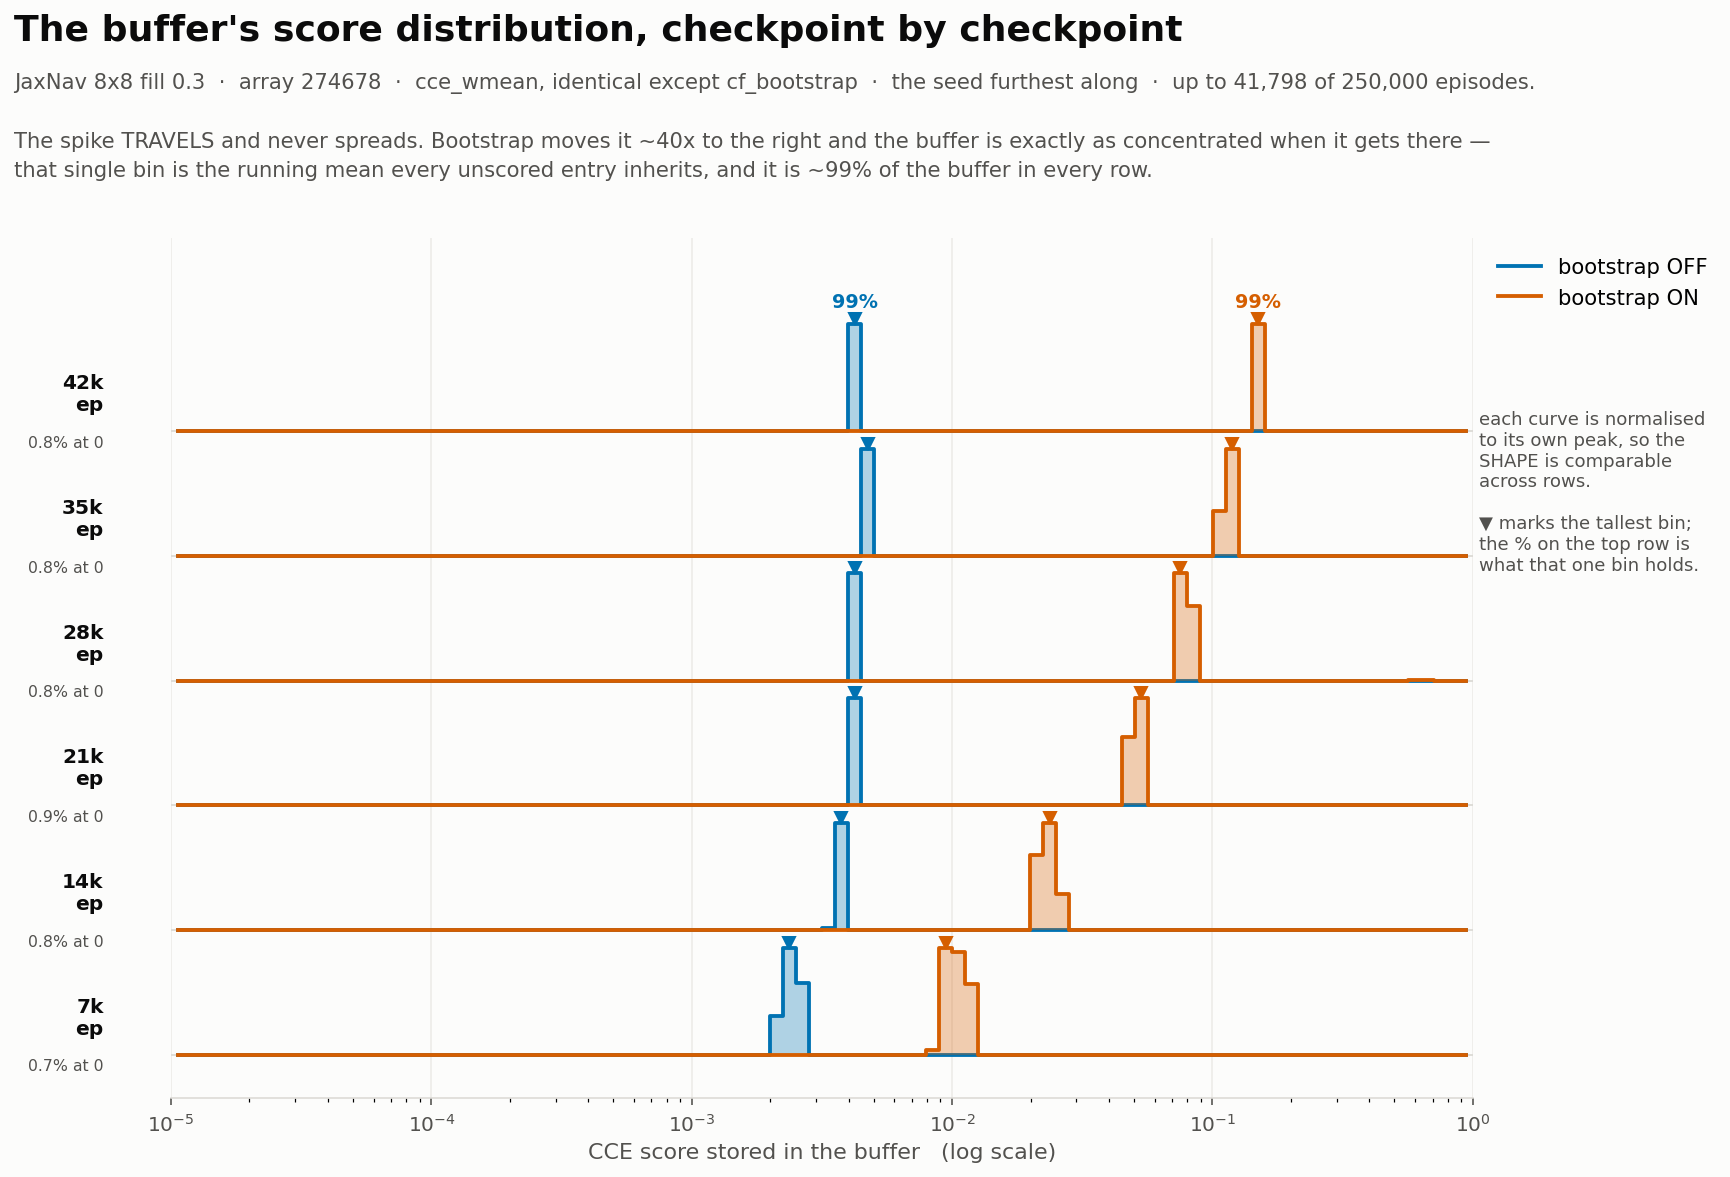
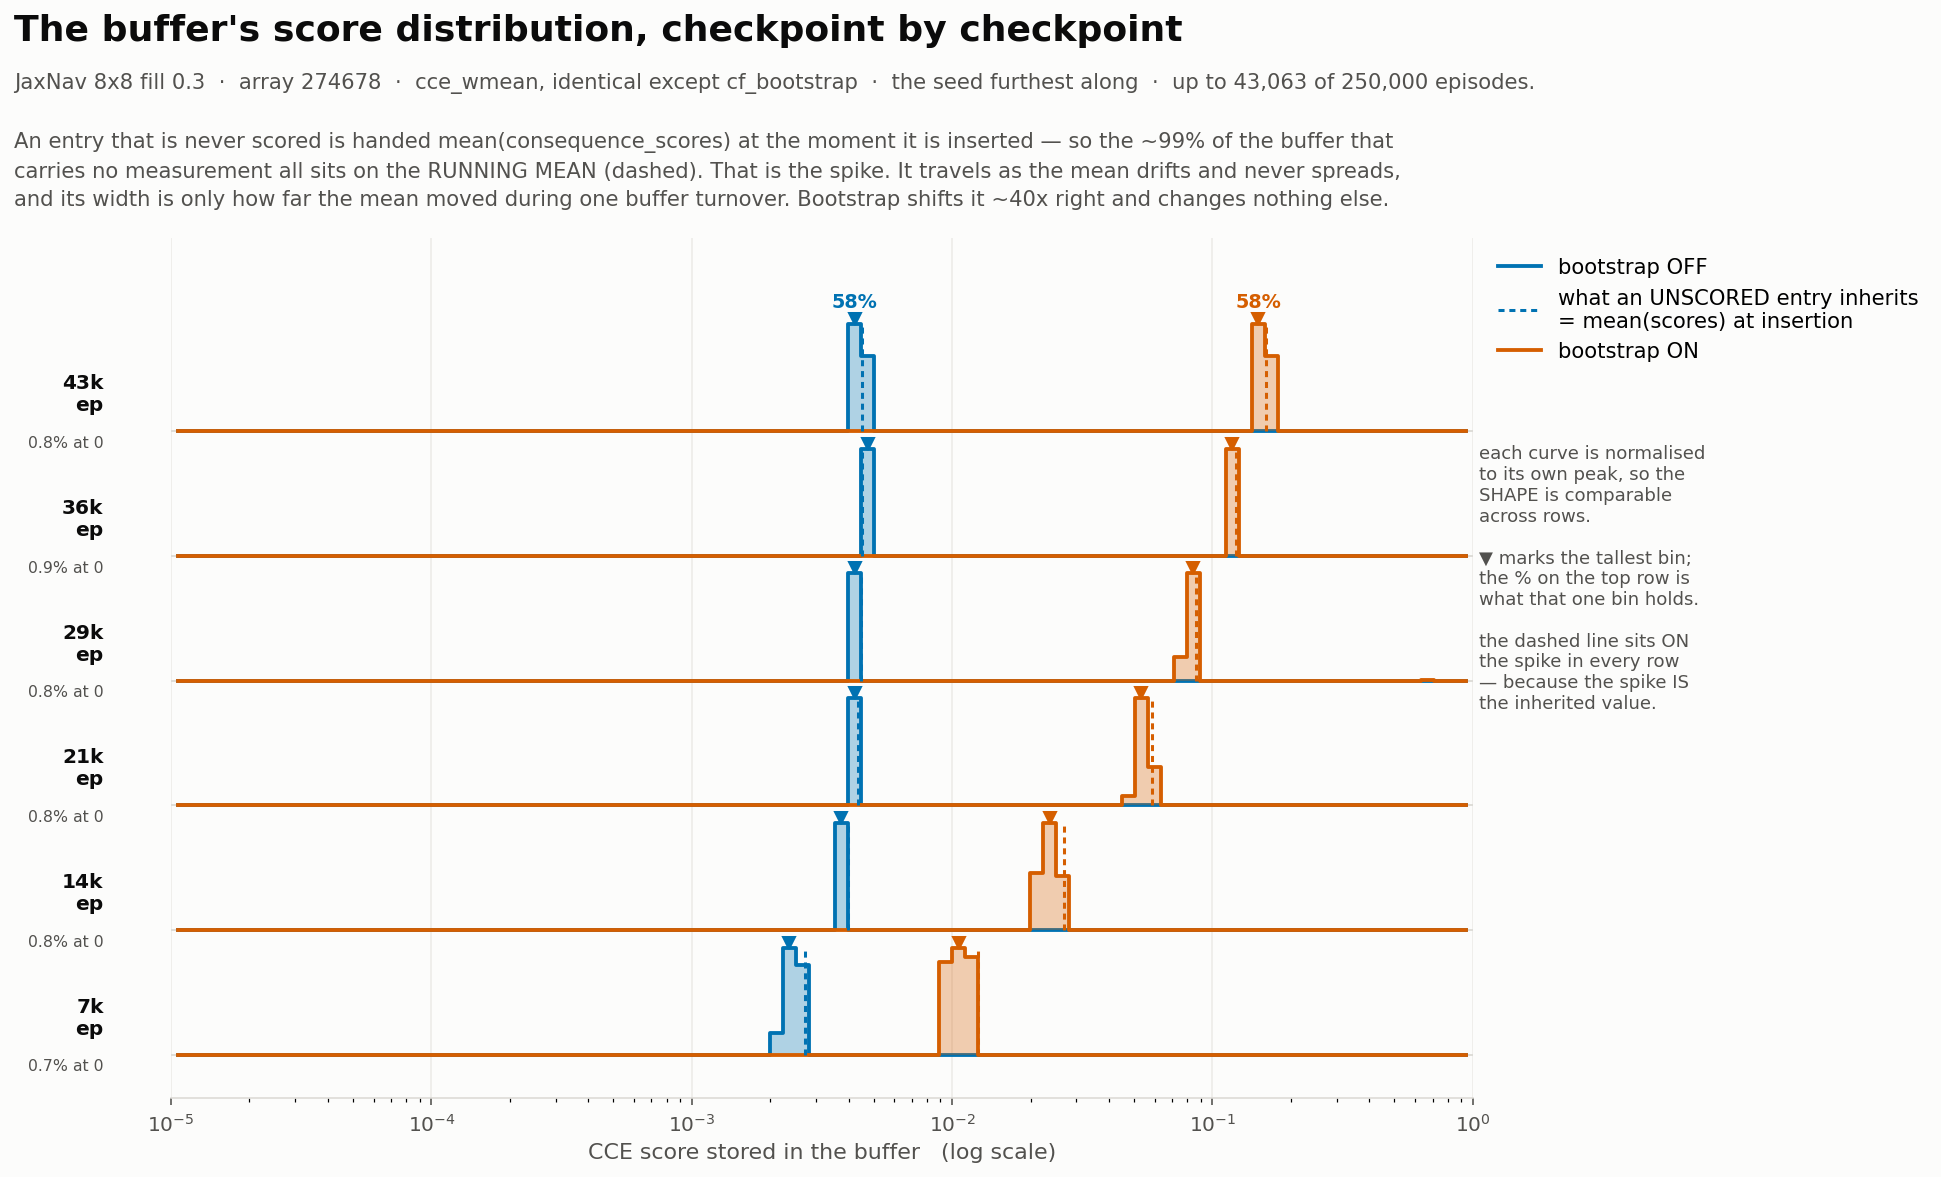
Ridgeline: mark the value an unscored entry actually inherits
An entry that is never scored is handed mean(consequence_scores) at the moment of
insertion (consequence_buffers.add, Algorithm 1 line 7 of the paper). Drawing that
value as a dashed line shows it landing ON the spike in every row of both arms --
the spike is not near the inherited value, it IS the inherited value.

Two things follow that were not obvious before:

  * The mean is self-referential -- it is the mean of a buffer that is ~99% entries
    which themselves received the mean -- so it drifts slowly and every unscored
    entry drifts with it in lockstep. Their relative order never changes, which is
    why no exponent can separate them.

  * The spike's WIDTH is therefore not signal. It is only how far the running mean
    moved during one buffer turnover, since entries inserted at different moments
    inherited slightly different values.

Also worth recording: the design choice matters more than the score quality. Handing
unscored entries 0 would rank them LAST and keep them distinct from scored ones;
handing them the mean ranks them MIDDLE and identical to each other. The second is
what the paper specifies, and it is what makes ~99% of the buffer unrankable.

Claude-Session: https://claude.ai/code/session_01LTwz2FieXcd96TvbSkaRAQ

diff --git a/src/counterfactual_rl/analysis/claim2/jaxnav_score_ridgeline.py b/src/counterfactual_rl/analysis/claim2/jaxnav_score_ridgeline.py
@@ -91,6 +91,16 @@ def main():
                             lw=0, zorder=2 + i)
             ax.step(centers, y, where="mid", color=col, lw=1.9, zorder=2 + i,
                     label=lab if i == 0 else None)
+            # WHERE THE INHERITED VALUE IS. An entry that is never scored is given
+            # mean(consequence_scores) at the moment it is inserted
+            # (consequence_buffers.add, Algorithm 1 line 7), so the spike IS the
+            # running mean -- and its small width is just how far that mean drifted
+            # over one buffer turnover, since entries inserted at different times
+            # inherited slightly different values.
+            ax.vlines(r["score_mean"], base, base + STEP * .86, color=col,
+                      ls=(0, (2, 1.6)), lw=1.5, zorder=39,
+                      label=("what an UNSCORED entry inherits\n= mean(scores) at insertion"
+                             if i == 0 and arm == "cce_wmean" else None))
             # where the spike is, and how much it holds
             k = int(h.argmax())
             ax.plot([centers[k]], [base + STEP * .90], marker="v", ms=6, color=col,
@@ -119,10 +129,11 @@ def main():
     ax.set_axisbelow(True)
     ax.legend(fontsize=10.5, frameon=False, loc="upper left",
               bbox_to_anchor=(1.005, 1.0))
-    ax.text(1.005, .80,
+    ax.text(1.005, .76,
             "each curve is normalised\nto its own peak, so the\nSHAPE is comparable\n"
             "across rows.\n\n▼ marks the tallest bin;\nthe % on the top row is\n"
-            "what that one bin holds.",
+            "what that one bin holds.\n\nthe dashed line sits ON\nthe spike in every row\n"
+            "— because the spike IS\nthe inherited value.",
             transform=ax.transAxes, fontsize=9, color=INK2, va="top")
 
     fig.text(.055, .955, "The buffer's score distribution, checkpoint by checkpoint",
@@ -131,10 +142,12 @@ def main():
              f"JaxNav 8x8 fill 0.3  ·  array {args.array}  ·  cce_wmean, identical "
              f"except cf_bootstrap  ·  the seed furthest along  ·  up to "
              f"{floor:,} of 250,000 episodes.\n\n"
-             "The spike TRAVELS and never spreads. Bootstrap moves it ~40x to the "
-             "right and the buffer is exactly as concentrated when it gets there —\n"
-             "that single bin is the running mean every unscored entry inherits, and "
-             "it is ~99% of the buffer in every row.",
+             "An entry that is never scored is handed mean(consequence_scores) at the "
+             "moment it is inserted — so the ~99% of the buffer that\ncarries no "
+             "measurement all sits on the RUNNING MEAN (dashed). That is the spike. "
+             "It travels as the mean drifts and never spreads,\nand its width is only "
+             "how far the mean moved during one buffer turnover. Bootstrap shifts it "
+             "~40x right and changes nothing else.",
              fontsize=10.5, color=INK2, va="top", linespacing=1.55)
 
     fig.savefig(OUT, dpi=145, facecolor=SURFACE, bbox_inches="tight")
